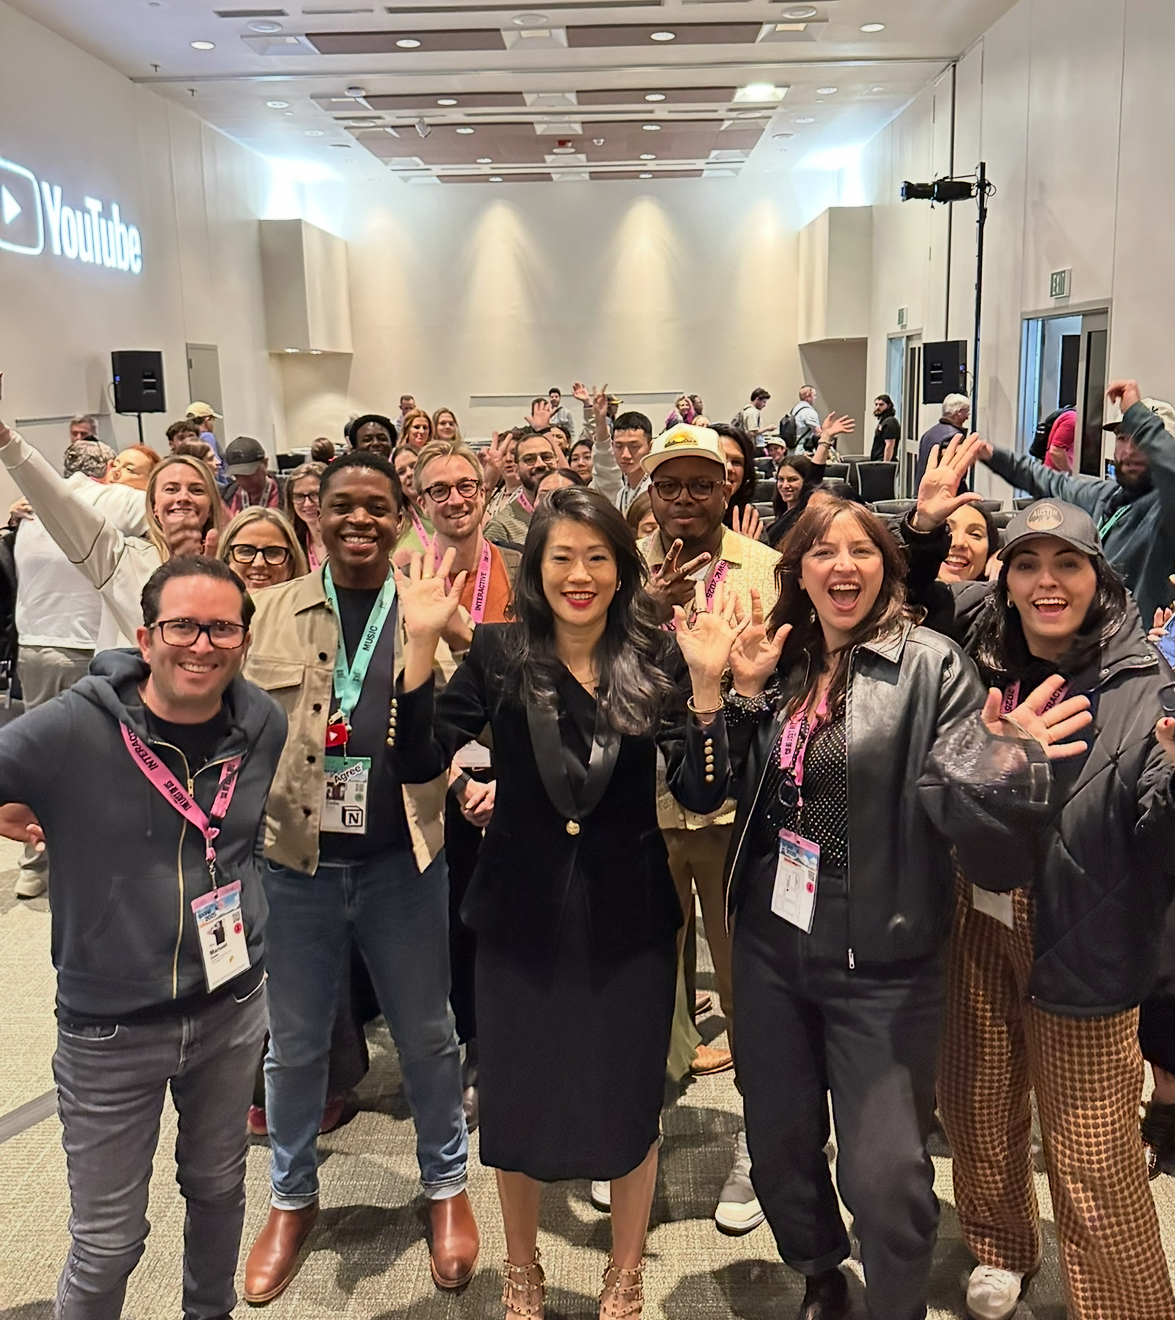
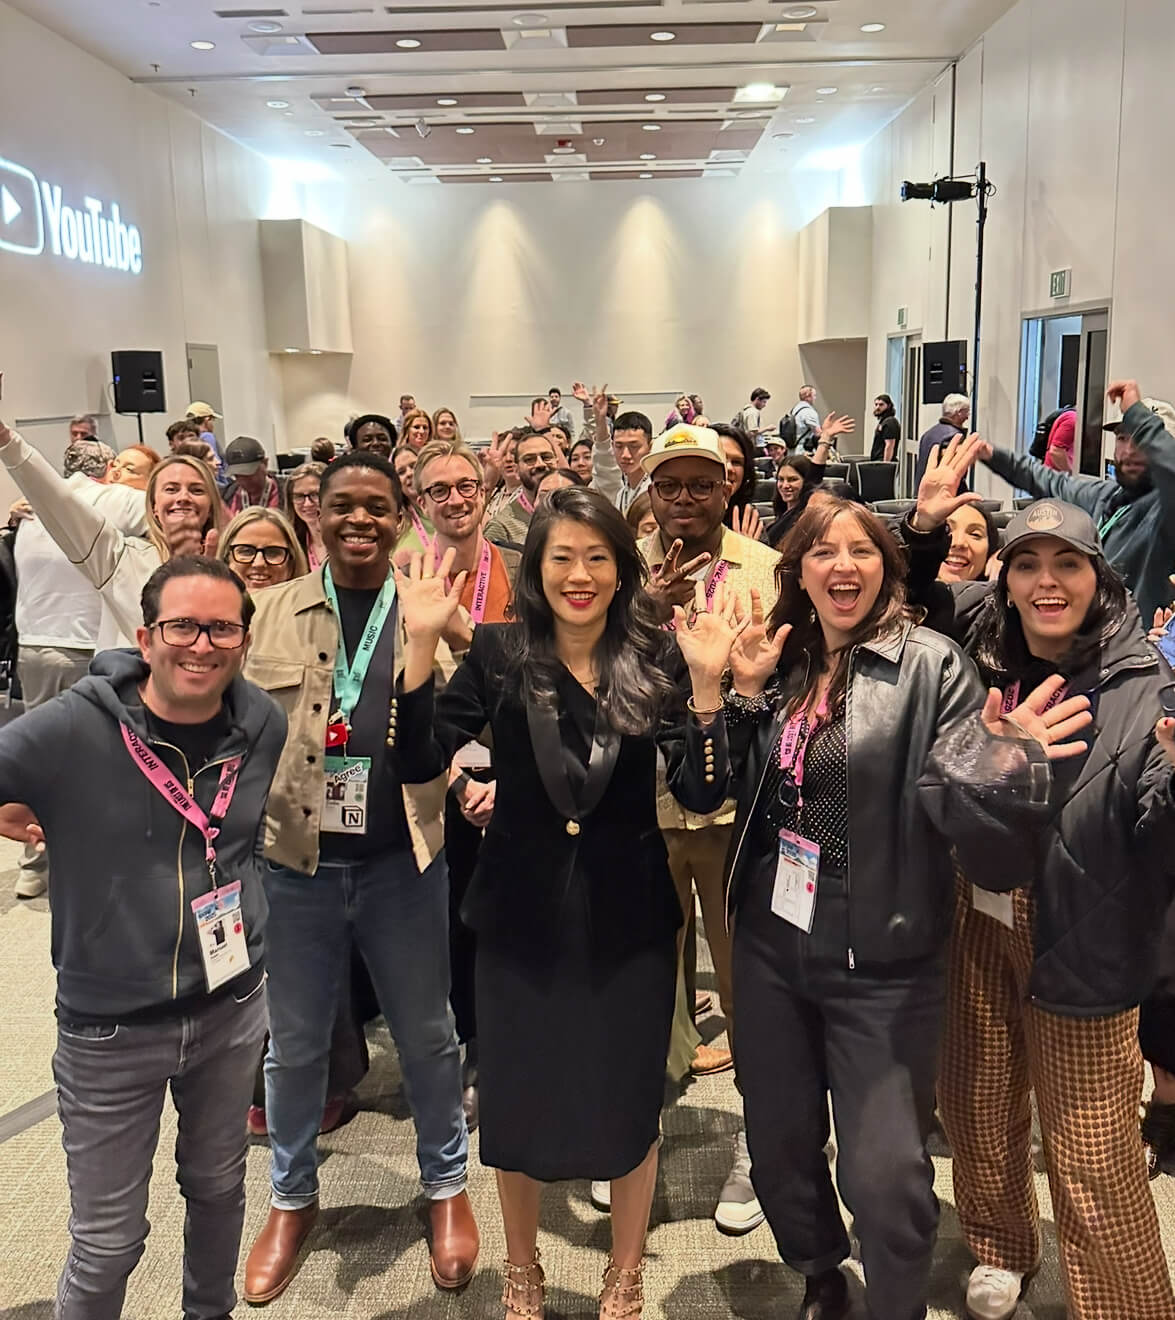
feat(creatorarq): update hero image and apply blog image effects
- Replace CreatorArq hero image with local creatorarq-hills.png
- Remove existing gradient overlays from hero
- Add blur filter (0.5px desktop, 0.3px mobile) to hero image
- Add obsidian color multiply overlay to hero
- Add noise overlay to hero matching blog image treatment
- Remove unused creatorarq-hero-youtuber-placeholder.jpg

Changed region(s): [[0.5821, 0.4348, 0.6128, 0.4659]]

diff --git a/src/styles/components/pages/hero.css b/src/styles/components/pages/hero.css
@@ -335,6 +335,47 @@ body.bg-bone .hero-subheadline--inner-page {
   text-align: var(--text-align-center);
 }
 
+/* CreatorArq page: add obsidian overlay and noise overlay to hero background image */
+
+/* Apply blur filter - optimized for performance */
+body.page-creatorarq .hero .background-image__img {
+  filter: blur(0.5px);
+  transition: filter 0.3s ease;
+}
+
+/* Obsidian color multiply layer - matches blog image treatment */
+body.page-creatorarq .hero .background-image::before {
+  content: '';
+  position: absolute;
+  inset: 0;
+  z-index: 1;
+  pointer-events: none;
+  background-color: var(--obsidian);
+  mix-blend-mode: multiply;
+  opacity: 0.6;
+}
+
+/* Noise overlay - matches blog image treatment */
+body.page-creatorarq .hero .background-image::after {
+  content: '';
+  position: absolute;
+  inset: 0;
+  z-index: 2; /* Above color overlay */
+  pointer-events: none;
+  background-image: url('/src/assets/images/blog/seamless-noise-texture.png');
+  background-repeat: repeat;
+  background-size: 200px 200px; /* Tile size for noise texture */
+  opacity: 0.5;
+  mix-blend-mode: overlay;
+}
+
+/* Reduce blur on mobile for performance */
+@media (max-width: 767px) {
+  body.page-creatorarq .hero .background-image__img {
+    filter: blur(0.3px);
+  }
+}
+
 /* Blog Post Hero - 80vh height */
 .hero--blog-post {
   position: relative;

diff --git a/src/styles/components/pages/roster-card.css b/src/styles/components/pages/roster-card.css
@@ -36,6 +36,8 @@ body.page-creator .roster-card {
   height: 100%;
   object-fit: cover;
   object-position: center;
+  /* Apply grayscale filter from blog images */
+  filter: grayscale(100%) blur(0.5px);
 }
 
 /* Hover effects - Desktop only (1024px+) */
@@ -44,7 +46,12 @@ body.page-creator .roster-card {
     transition: transform 0.4s ease;
   }
 
-  .roster-card:hover .roster-card__image {
+  .roster-card__overlay {
+    transition: transform 0.4s ease;
+  }
+
+  .roster-card:hover .roster-card__image,
+  .roster-card:hover .roster-card__overlay {
     transform: scale(1.05);
   }
 }
@@ -52,14 +59,20 @@ body.page-creator .roster-card {
 .roster-card__overlay {
   position: absolute;
   inset: 0;
-  background-color: var(--obsidian);
-  mix-blend-mode: color;
+  z-index: 1;
   pointer-events: none;
+  /* Noise overlay - reusing blog image noise effect */
+  background-image: url('/src/assets/images/blog/seamless-noise-texture.png');
+  background-repeat: repeat;
+  background-size: 200px 200px; /* Tile size for noise texture */
+  opacity: 0.5;
+  mix-blend-mode: overlay;
 }
 
 .roster-card__scrim {
   position: absolute;
   inset: 0;
+  z-index: 2; /* Above noise overlay for text readability */
   background: linear-gradient(
     to bottom,
     var(--obsidian-0) 12.019%,
@@ -80,7 +93,7 @@ body.page-creator .roster-card {
     color: var(--bone);
     text-transform: var(--text-transform-ui);
     margin: 0;
-    z-index: 1;
+    z-index: 3; /* Above scrim (z-index: 2) for text readability */
     /* Truncate long handles on grid pages */
     overflow: hidden;
     text-overflow: ellipsis;
@@ -118,6 +131,11 @@ body.page-creator .roster-card__handle {
 /* Hide overlaid handle when using testimonial modifier (only the absolutely positioned one) */
 .roster-card--testimonial .roster-card__image-wrapper .roster-card__handle {
   display: none;
+}
+
+/* Remove grayscale filter from testimonial card images */
+.roster-card--testimonial .roster-card__image {
+  filter: none;
 }
 
 /* Hide overlay and scrim on testimonial cards */
@@ -194,5 +212,16 @@ body.page-creator .roster-card__handle {
   color: var(--text-body-color, var(--text-body-on-chuparosa-700)); /* Adapt to page background */
   margin: 0;
   text-wrap: balance;
+}
+
+/* ========================================
+   Responsive Considerations
+   ======================================== */
+
+/* Reduce blur intensity on mobile for performance */
+@media (max-width: 767px) {
+  .roster-card__image {
+    filter: grayscale(100%) blur(0.3px);
+  }
 }
 

diff --git a/creatorarq.html b/creatorarq.html
@@ -433,18 +433,10 @@
   <!-- Background Image Component -->
   <div class="background-image" aria-hidden="true">
     <img 
-      src="src/assets/images/creatorarq/creatorarq-hero-youtuber-placeholder.jpg" 
+      src="/src/assets/images/creatorarq/creatorarq-hills.png" 
       alt="" 
       class="background-image__img"
     />
-    <!-- Overlay Layer 1: Crimson to Purple gradient with soft-light blend -->
-    <div class="background-image__overlay background-image__overlay-gradient-1"></div>
-    <!-- Overlay Layer 2: Dark brown to gold gradient with hue blend -->
-    <div class="background-image__overlay background-image__overlay-gradient-2"></div>
-    <!-- Overlay Layer 3: Dark overlay with difference blend -->
-    <div class="background-image__overlay background-image__overlay-dark"></div>
-    <!-- Overlay Layer 4: Final opacity overlay -->
-    <div class="background-image__overlay background-image__overlay-opacity"></div>
   </div>
   
   